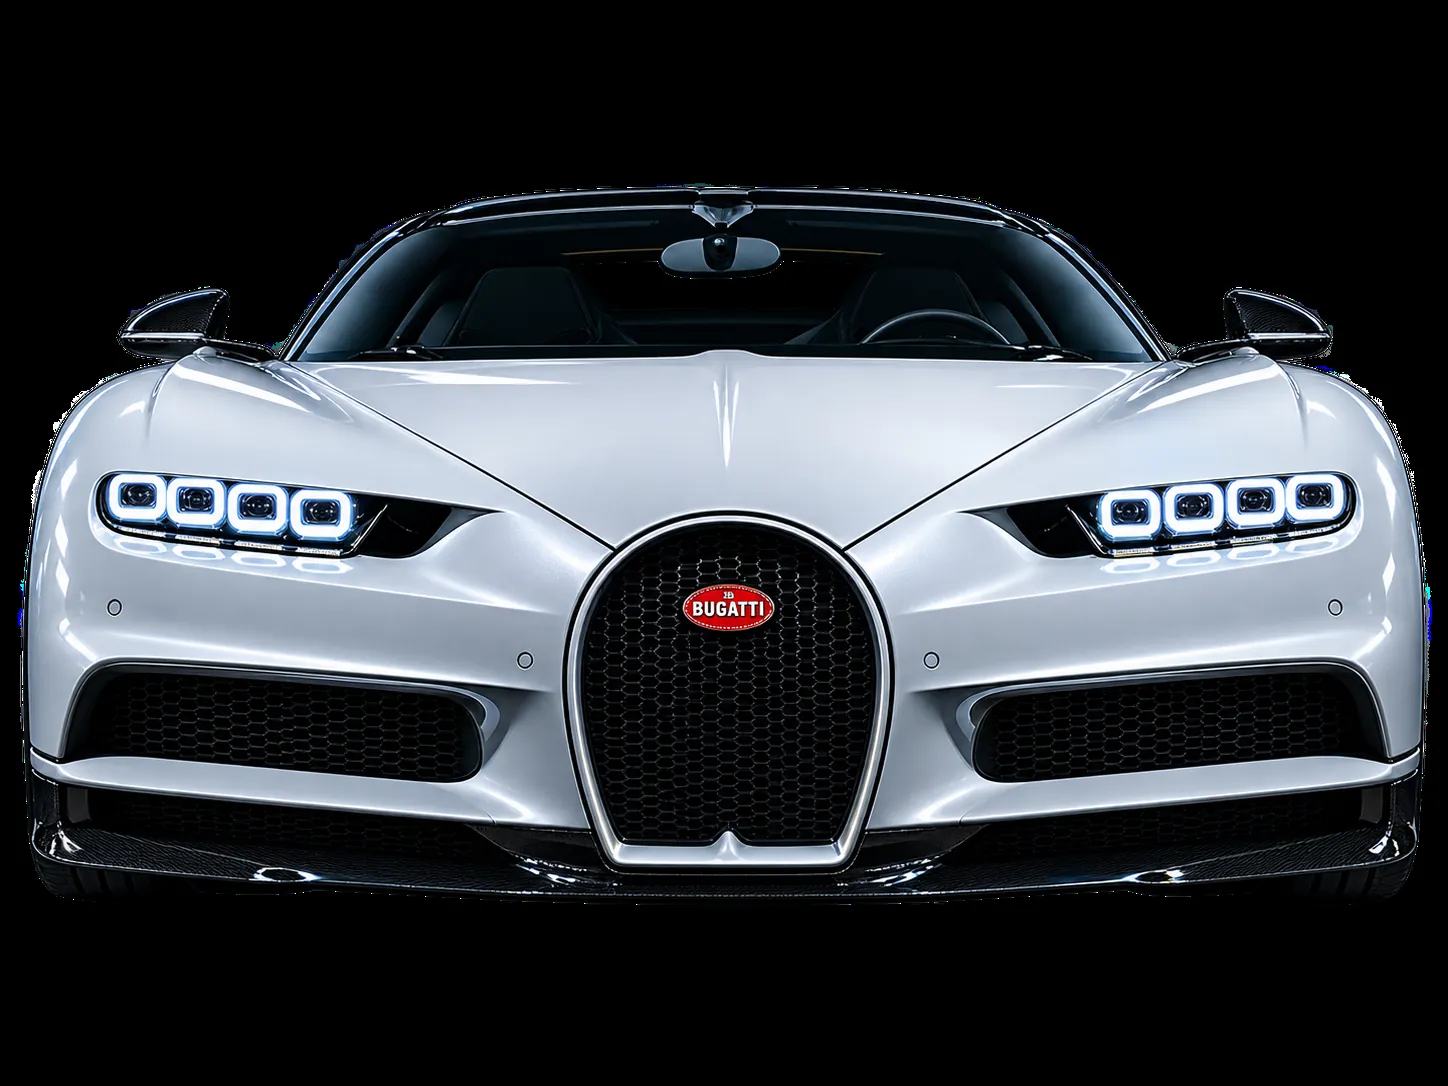
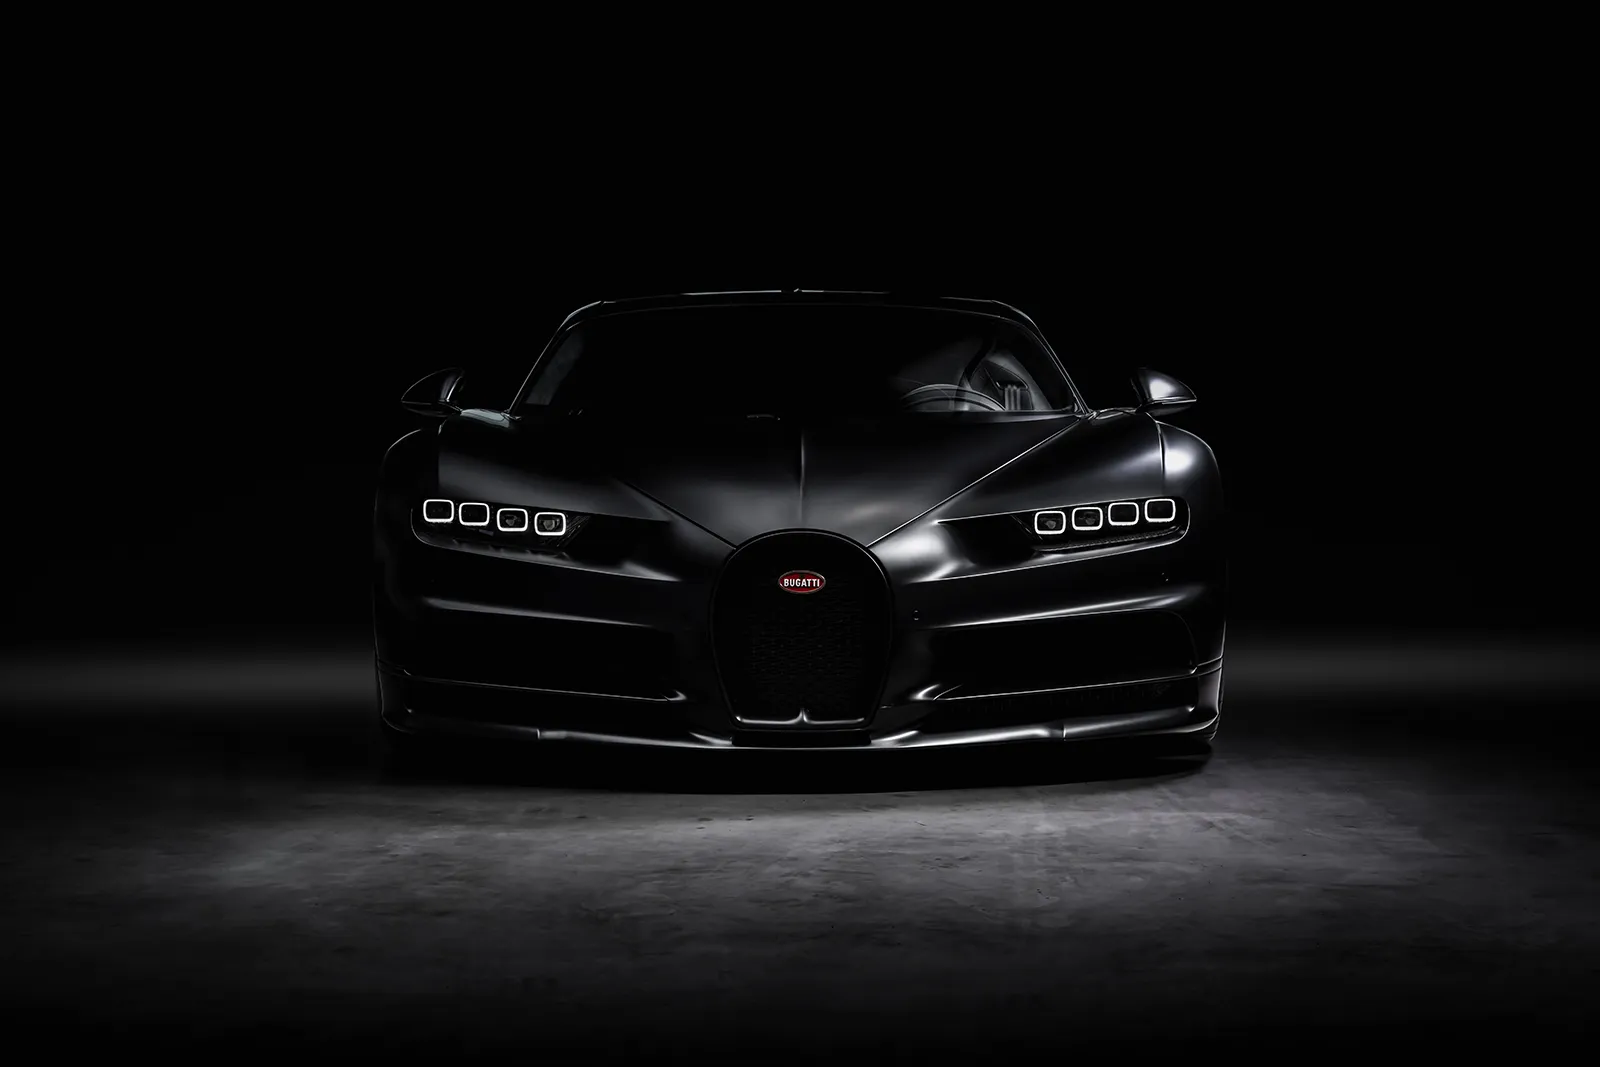
Black Chiron becomes THE Bugatti site-wide + AMG GT R reframed to show whole
- bugatti.webp now holds the black studio Chiron, so every surface
  that reads the car from cars.js (collection, modal, spotlight,
  duel, hybrid, gallery, test-drive) shows the black car; the hero
  points back at bugatti.webp and the duplicate hero-black.webp is
  removed. The white Chiron is kept in the assets backup.
- Sayed's new AMG GT R photo (already truly WebP since 0c2c659) is
  reframed: its 2:1 frame filled the cards edge-to-edge so cover
  cropped the nose and tail. The canvas is now padded with the
  photo's own black to 3:4, so the whole car — spoiler included —
  shows in the collection cards, the modal and the portrait
  test-drive preview alike.

diff --git a/src/components/Hero.jsx b/src/components/Hero.jsx
@@ -51,7 +51,7 @@ export default function Hero({ started }) {
       {/* car backdrop — slow cinematic dolly-in + scroll parallax */}
       <motion.div style={{ y: imgY }} className="absolute inset-0">
         <motion.img
-          src="/cars/hero-black.webp"
+          src="/cars/bugatti.webp"
           alt="Bugatti Chiron"
           initial={{ scale: 1.18 }}
           animate={started ? { scale: 1.02 } : {}}
